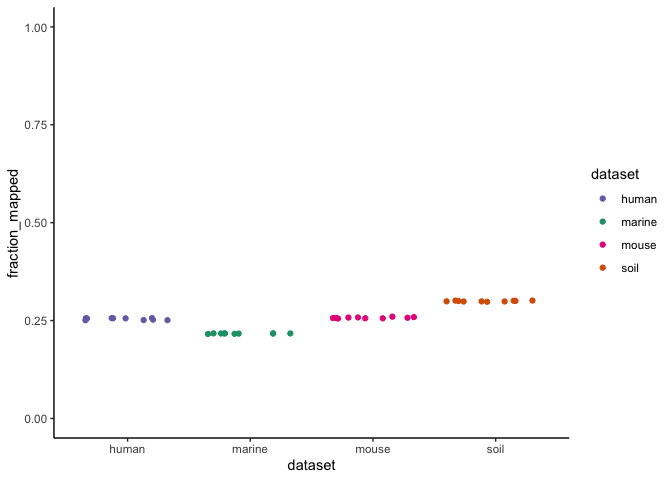
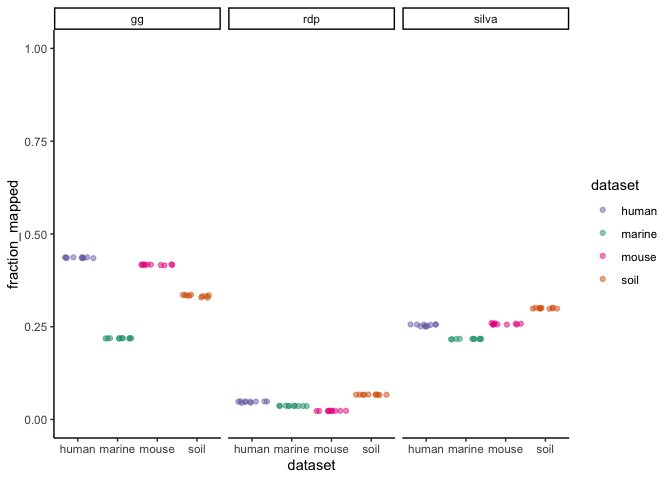
Facet by reference database

diff --git a/exploratory/2020/README.md b/exploratory/2020/README.md
@@ -21,40 +21,52 @@ relevel_method <- function(df) {
   df %>%
     mutate(method = fct_relevel(method, c("open", "closed", "de_novo")))
 }
-plot_jitter <- function(.df, ...) {
-  .df %>% 
-    ggplot(aes(...)) +
-    geom_jitter() +
-    scale_color_manual(values=dataset_colors)
-}
 ```
 
 ``` r
-sensspec <- read_tsv(here('subworkflows/2_fit_reference_db/results/sensspec.txt')) %>% 
+sensspec <-
+  read_tsv(here('subworkflows/2_fit_reference_db/results/sensspec.tsv')) %>%
   relevel_method()
-sensspec %>% 
-  group_by(dataset, method) %>% 
-  plot_jitter(x = method, y = mcc, color = dataset) +
-  ylim(0, 1)
+sensspec %>%
+  group_by(dataset, method) %>%
+  ggplot(aes(x = method, y = mcc, color = dataset)) +
+  geom_jitter(alpha = 0.5) +
+  scale_color_manual(values = dataset_colors) +
+  ylim(0, 1) +
+  facet_wrap("ref") 
 ```
 
 ![](figures/fit_db_sensspec-1.png)<!-- -->
 
 ``` r
-benchmarks <- read_tsv(here('subworkflows/2_fit_reference_db/results/benchmarks.txt')) %>% 
+benchmarks <-
+  read_tsv(here('subworkflows/2_fit_reference_db/results/benchmarks.tsv')) %>%
   relevel_method
-benchmarks %>% 
-  group_by(dataset, method) %>% 
-  plot_jitter(x = method, y = s, color = dataset) +
-  labs(y='seconds')
+benchmarks %>%
+  group_by(dataset, method) %>%
+  ggplot(aes(x = method, y = s, color = dataset)) +
+  geom_boxplot() +
+  scale_color_manual(values = dataset_colors) +
+  facet_wrap("ref") +
+  labs(y = 'seconds')
 ```
 
 ![](figures/fit_db_benchmarks-1.png)<!-- -->
 
 ``` r
-fractions <- read_tsv(here('subworkflows/2_fit_reference_db/results/fraction_reads_mapped.txt'))
+input_sizes <-
+  read_tsv(here('subworkflows/2_fit_reference_db/results/input_sizes.tsv'))
+```
+
+Only for closed-reference OptiFit
+
+``` r
+fractions <- read_tsv(here('subworkflows/2_fit_reference_db/results/fraction_reads_mapped.tsv'))
 fractions %>% 
-  plot_jitter(x=dataset, y=fraction_mapped, color=dataset) +
+  ggplot(aes(x=dataset, y=fraction_mapped, color=dataset)) +
+  geom_jitter(alpha = 0.5) +
+  scale_color_manual(values = dataset_colors) +
+  facet_wrap("ref") +
   ylim(0, 1)
 ```
 
